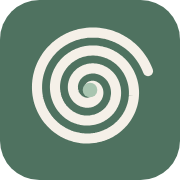
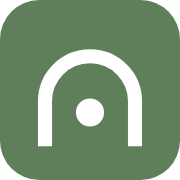
Hypnoz : nouvelle icône (arche et point, vert sauge)
Claude-Session: https://claude.ai/code/session_01FKFqK337QXd13vxEJ79W3Y

Changed region(s): [[0.1667, 0.1389, 0.8611, 0.8333], [0.3333, 0.3056, 0.3611, 0.3333]]

diff --git a/images/WEB/hypnoz-therapie/index.html b/images/WEB/hypnoz-therapie/index.html
@@ -4,9 +4,9 @@
   <meta charset="UTF-8" />
   <meta name="viewport" content="width=device-width, initial-scale=1.0" />
   <title>Hypnoz | Retrouvez votre équilibre</title>
-  <link rel="icon" href="favicon.svg" type="image/svg+xml">
-  <link rel="icon" href="favicon.ico" sizes="any">
-  <link rel="apple-touch-icon" href="apple-touch-icon.png">
+  <link rel="icon" href="favicon.svg?v=2" type="image/svg+xml">
+  <link rel="icon" href="favicon.ico?v=2" sizes="any">
+  <link rel="apple-touch-icon" href="apple-touch-icon.png?v=2">
   <link href="https://fonts.googleapis.com/css2?family=Cormorant+Garamond:ital,wght@0,300;0,400;0,600;1,300;1,400&family=Jost:wght@300;400;500;600&display=swap" rel="stylesheet" />
   <style>
     *, *::before, *::after { box-sizing: border-box; margin: 0; padding: 0; }
